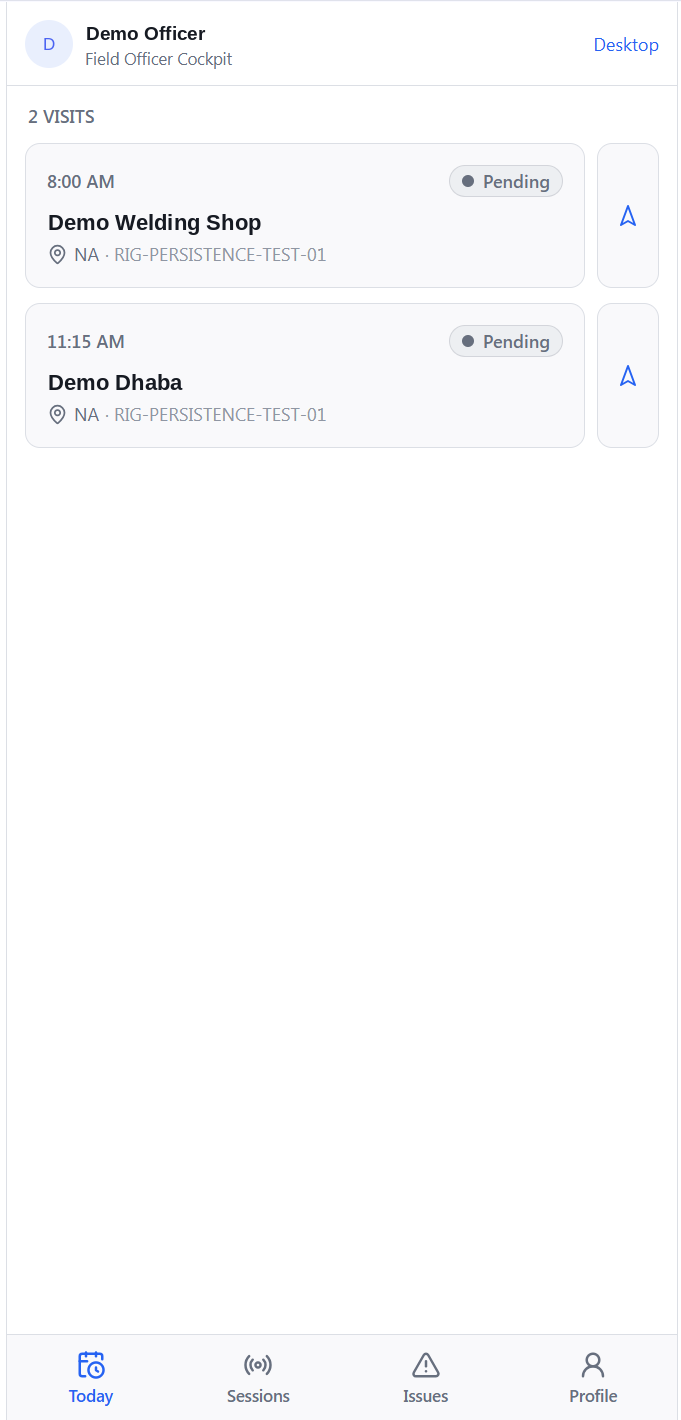
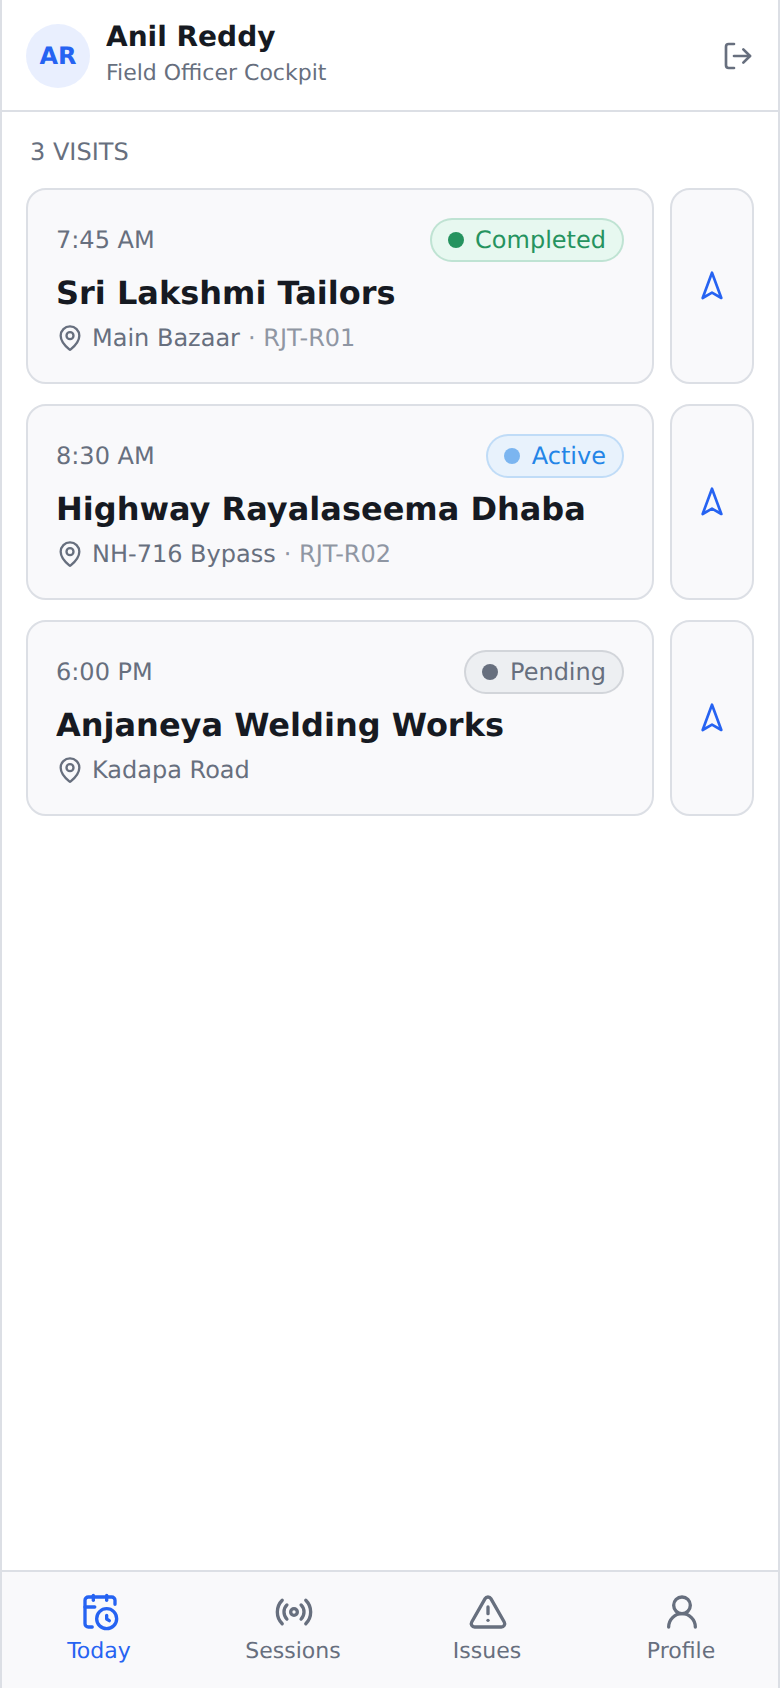
Swap City Ops screenshots for demo-data captures with green hours tile
- Manager command center and field officer phone views re-captured from
  the production build running a made-up Rajampet demo dataset
  (18.6h of 20h, completed / active / pending visits), replacing the
  0.0h and PERSISTENCE-TEST shots. Both stay tagged "Demo data".
- Alt text, callout labels and marker positions updated to match; markers
  sit in empty space instead of over the text they label.
- DESIGN.md / TODO.md note where the screenshots come from.

Claude-Session: https://claude.ai/code/session_011JNQ43Y1UQRqPjNHPso3Mn

diff --git a/content/projects/city-ops-os.ts b/content/projects/city-ops-os.ts
@@ -3,7 +3,7 @@ import type { CaseStudy } from '../types';
 // Flagship: Instawork → City Ops OS, written as a decision log.
 // Tags after each line name the resume line it comes from (PLAN.md, Appendix A).
 // Anything the resume doesn't say is a TODO (hidden on the live site), never a guess.
-// Screenshots: public/work/city-ops-os/ (demo data; names replaced with demo text).
+// Screenshots: public/work/city-ops-os/ — the real app (production build, local demo mode) with a made-up demo dataset.
 
 export const cityOpsOs: CaseStudy = {
   slug: 'city-ops-os',
@@ -129,10 +129,12 @@ export const cityOpsOs: CaseStudy = {
           type: 'shot',
           media: 'cityOpsDesktop',
           callouts: [
-            { x: 52.5, y: 15.9, label: 'Plan the day, assign field officers, start sessions, report issues' },
-            { x: 20.5, y: 36.6, label: 'Recording hours against the day’s target' },
-            { x: 43, y: 36.6, label: 'Businesses, field officers, live sessions, issues and fleet at a glance' },
-            { x: 19.5, y: 90.3, label: 'Field execution checks: evidence, location mismatches, prechecks' },
+            { x: 49.8, y: 13.6, label: 'Plan the day, assign field officers, start sessions, report issues' },
+            { x: 35.5, y: 34.1, label: 'Recording hours against the day’s target (rigs × 10h)' },
+            { x: 46.1, y: 43.9, label: 'Businesses, field officers, live sessions, issues and fleet at a glance' },
+            { x: 38.8, y: 64.2, label: 'Field execution checks: evidence, location mismatches, prechecks' },
+            { x: 43.3, y: 90.6, label: 'A “What needs my attention?” feed — empty when the day is on track' },
+            { x: 91.4, y: 83.4, label: 'City Pulse: one operational health score' },
           ],
         },
         {
@@ -150,9 +152,10 @@ export const cityOpsOs: CaseStudy = {
           type: 'shot',
           media: 'cityOpsPhone',
           callouts: [
-            { x: 8, y: 11.5, label: 'Today’s visits, in order, with their status' },
-            { x: 92, y: 15.2, label: 'Navigate to each visit' },
-            { x: 13, y: 96, label: 'Today, Sessions, Issues and Profile tabs' },
+            { x: 41.4, y: 8.9, label: 'Today’s visits, in order' },
+            { x: 46, y: 25, label: 'Status per visit: completed, active, pending' },
+            { x: 91.4, y: 53.7, label: 'Navigate to each visit' },
+            { x: 50.1, y: 88.3, label: 'Today, Sessions, Issues and Profile tabs' },
           ],
         },
       ],

diff --git a/content/media.ts b/content/media.ts
@@ -24,13 +24,13 @@ export const media = {
     frame: 'browser',
     bar: 'City Ops OS · Command Center',
     demo: true,
-    alt: 'City Ops OS command center for Rajampet: quick actions to add a business, plan the day, assign a field officer, start a session or report an issue; recording hours against a 20-hour target; counts of businesses, active field officers, live sessions, open critical issues and ready fleet; today’s field execution checks; and a “What needs my attention?” feed.',
+    alt: 'City Ops OS command center for Rajampet with demo data: 18.6 of 20 recording hours (93%), one of three businesses completed, one field officer and one session active, no critical issues, fleet 3 of 3 ready, today’s field execution checks with no location mismatches or precheck failures, an empty “What needs my attention?” feed and a City Pulse health score of 100.',
   },
   cityOpsPhone: {
     src: cityOpsPhone,
     frame: 'phone',
     demo: true,
-    alt: 'City Ops OS field officer cockpit on a phone: two visits for today with their times, business names and a Pending status, a navigate button beside each, and tabs for Today, Sessions, Issues and Profile.',
+    alt: 'City Ops OS field officer cockpit on a phone, with demo data: three visits for today — a completed 7:45 AM visit to a tailor, an active 8:30 AM recording at a dhaba and a pending 6:00 PM visit to a welding works — each with a navigate button, and tabs for Today, Sessions, Issues and Profile.',
   },
   karavaliDiscover: {
     src: karavaliDiscover,

diff --git a/DESIGN.md b/DESIGN.md
@@ -75,7 +75,7 @@ Inside the Field Log frame:
 - **Hero = night-shift panel** (`.night` scopes the dark tokens) in both themes; in the dark theme it sits one step deeper than the page. First screen on 390px and 1440px: headline, proof tiles (10,000+ / 50+ / 116, counting up once), and the City Ops OS desktop + phone pair.
 - **Every visual sits on a Plate** (`.plate`: `--plate` tint + a soft `--plate-glow` from the top, `rounded-plate` 16px). Frames inside: `BrowserFrame` (three dots, optional address) or `PhoneFrame` (simple bezel), both `rounded-frame` 10px, `border-line`, `.frame-shadow`. No realistic mockups or reflections.
 - **Tags on the plate, top right:** "Demo data" for made-up data, "Illustration" for drawn visuals. Nothing else.
-- **Crops:** `Shot aspect=… focus=…` crops in CSS to the strongest region. The City Ops desktop file itself is cropped to hide a test item until a clean screenshot arrives.
+- **Crops:** `Shot aspect=… focus=…` crops in CSS to the strongest region. City Ops screenshots come from the real production build running a made-up demo dataset (see TODO.md).
 - **Illustrations** (Career OS pipeline card, ANPR detection frame with an "XX 00 XX 0000" placeholder plate, ITC single-line diagram) are built only from sourced facts and always tagged.
 - **Cards:** the visual is the card (plate 5:4), then title, one line, one chip. Hover/focus: lift 4px, image zoom 3% — motion-safe only.
 - **Rhythm:** no phone screen is text-only for more than one screen (checked with a script: longest text-only stretch < 844px).

diff --git a/TODO.md b/TODO.md
@@ -52,10 +52,8 @@ These questions need your own words, so they were hidden rather than filled with
 
 ## Visual upgrade v3 (branch `visual-v3`, waiting for approval)
 - [ ] **(you)** Vercel: the live URL still serves Phase 2. Pushes reach Vercel, and `main` builds cleanly from a fresh clone, so check Deployments (see the chat for exactly what to look for).
-- [ ] **(you)** Replace these screenshots — they read as empty or test data:
-  - City Ops command center: "0.0h / 20h" in red and zero counts; the "CITY-OPS-PERSISTENCE-TEST" item is cropped out for now.
-  - City Ops field officer phone: "RIG-PERSISTENCE-TEST-01", "NA" location, mostly empty list.
-  - Audit AI: an empty input screen; the results screen after running the sample would be much stronger.
+- [x] City Ops screenshots replaced (Sep 24): the real app's production build, run locally in demo mode (no Firebase) with a made-up Rajampet dataset, clock frozen at 5:45 PM IST — 18.6h / 20h (93%), fleet 3/3, completed / active / pending visits. Tagged "Demo data". Generator: made-up names only, no phone numbers.
+- [ ] **(you)** Audit AI: still an empty input screen; the results screen after running the sample would be much stronger.
 - [ ] **(you)** Send screenshots as files (paperclip) in a message on their own — pasted images don't arrive.
 
 ## Still-open questions (PLAN.md §4)
